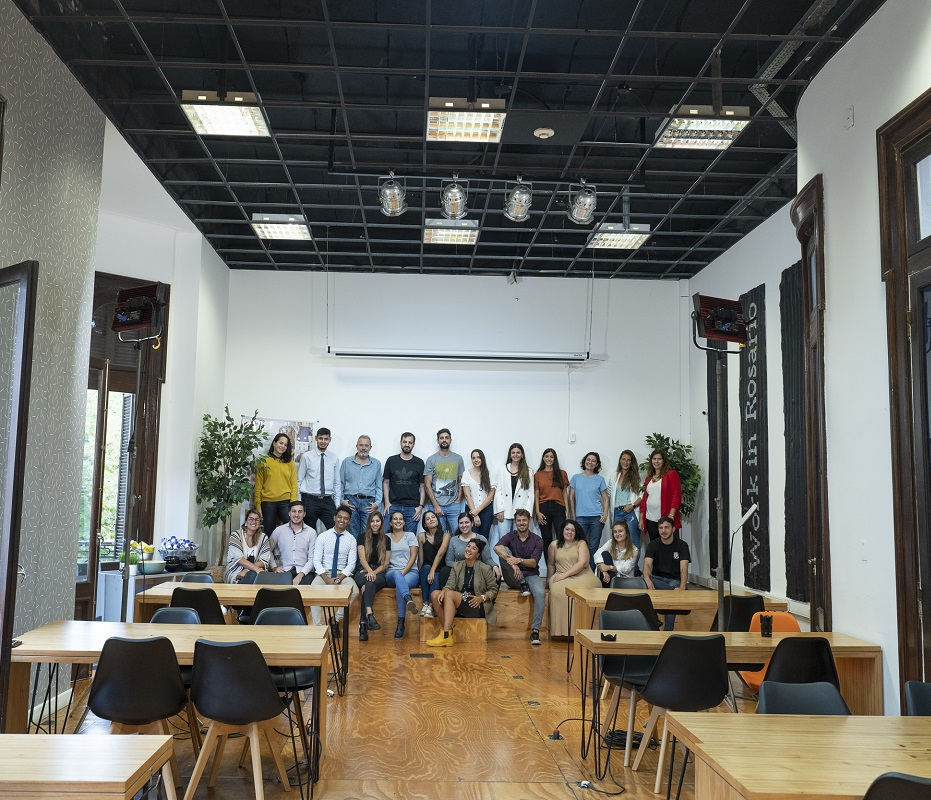
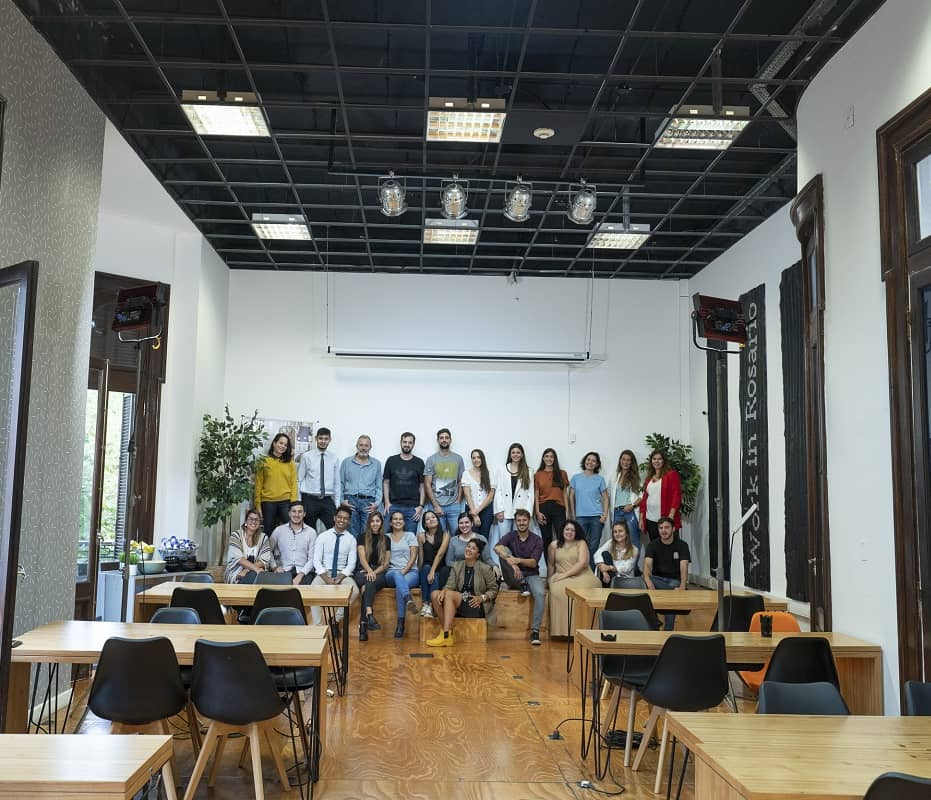
images compressed and fix accesibility

diff --git a/src/index.css b/src/index.css
@@ -1315,7 +1315,7 @@ header .header-text h2 {
   -webkit-box-align: center;
       -ms-flex-align: center;
           align-items: center;
-  color: #f8a734;
+  color: #262626;
   text-transform: uppercase;
   -webkit-transition: all 0.2s ease;
   transition: all 0.2s ease;
@@ -1375,7 +1375,7 @@ header .header-text h2 {
 }
 
 #servicios .servicio-detalle .descripcion .titulo-valor {
-  color: #f8a734;
+  color: #262626;
   font-weight: 800;
 }
 
@@ -1602,12 +1602,12 @@ header .header-text h2 {
 }
 
 #contacto .enviar-msg {
-  color: #f8a734;
   font-weight: 800;
   text-transform: uppercase;
   width: 150px;
   border-radius: 15px;
-  background: #f5f5f5;
+  background-color: #ffca68;
+  color: #262626;
   -webkit-box-shadow: 5px 5px 15px #bebebeb2, -5px -5px 15px #ffffff;
           box-shadow: 5px 5px 15px #bebebeb2, -5px -5px 15px #ffffff;
   border: 0;
@@ -1637,10 +1637,6 @@ header .header-text h2 {
     border-radius: 10px;
     border: 1px solid rgba(255, 255, 255, 0.18);
     padding: 1.5rem;
-  }
-  #contacto .contacto-info .enviar-msg {
-    background-color: #f8a734;
-    color: #f5f5f5;
   }
   #contacto .contacto-info a {
     text-decoration: none;

diff --git a/src/components/Contact/_contact.scss b/src/components/Contact/_contact.scss
@@ -16,12 +16,12 @@
         }
     }
     .enviar-msg {
-        color: $primaryColor;
         font-weight: 800;
         text-transform: uppercase;
         width: 150px;
         border-radius: 15px;
-        background: $white;
+        background-color: rgb(255, 202, 104);
+        color: $secondaryColor;
         box-shadow: 5px 5px 15px #bebebeb2, -5px -5px 15px #ffffff;
         border: 0;
         padding: 0.5rem;
@@ -51,10 +51,7 @@
             border-radius: 10px;
             border: 1px solid rgba(255, 255, 255, 0.18);
             padding: 1.5rem;
-            .enviar-msg {
-                background-color: $primaryColor;
-                color: $white;
-            }
+
             a {
                 text-decoration: none;
                 transition: all 0.2s;

diff --git a/src/components/OurServices/_ourServices.scss b/src/components/OurServices/_ourServices.scss
@@ -18,7 +18,7 @@
             flex-direction: column;
             justify-content: center;
             align-items: center;
-            color: $primaryColor;
+            color: $secondaryColor;
             text-transform: uppercase;
             transition: all 0.2s ease;
             &:nth-child(2) {
@@ -70,7 +70,7 @@
         }
         .descripcion {
             .titulo-valor {
-                color: $primaryColor;
+                color: $secondaryColor;
                 font-weight: 800;
             }
             ul {

diff --git a/src/components/Contact/index.jsx b/src/components/Contact/index.jsx
@@ -41,7 +41,7 @@ export default function Contact() {
                     venir a visitarnos para conocer nuestros espacios o podes
                     experimentar un dia de trabajo de cortesía.
                 </p>
-                <h3>Contacto</h3>
+                <strong>Contacto</strong>
                 <p>(+54) 341 3085430</p>
                 <small>
                     <a

diff --git a/src/layout/index.jsx b/src/layout/index.jsx
@@ -14,6 +14,7 @@ export default function Layout({ children }) {
                 rel="noopener noreferrer"
                 className="hvr-pop"
                 style={{ position: "fixed", right: 20, bottom: 20, width: 50 }}
+                aria-label="Whatsapp"
             >
                 <Whatsapp primaryColor="#f5f5f5" secondaryColor="#f8a734" />
             </a>

diff --git a/src/components/Footer/index.jsx b/src/components/Footer/index.jsx
@@ -26,7 +26,6 @@ export default function Footer() {
         }
     };
 
-    console.log(state);
     return (
         <>
             <footer>
